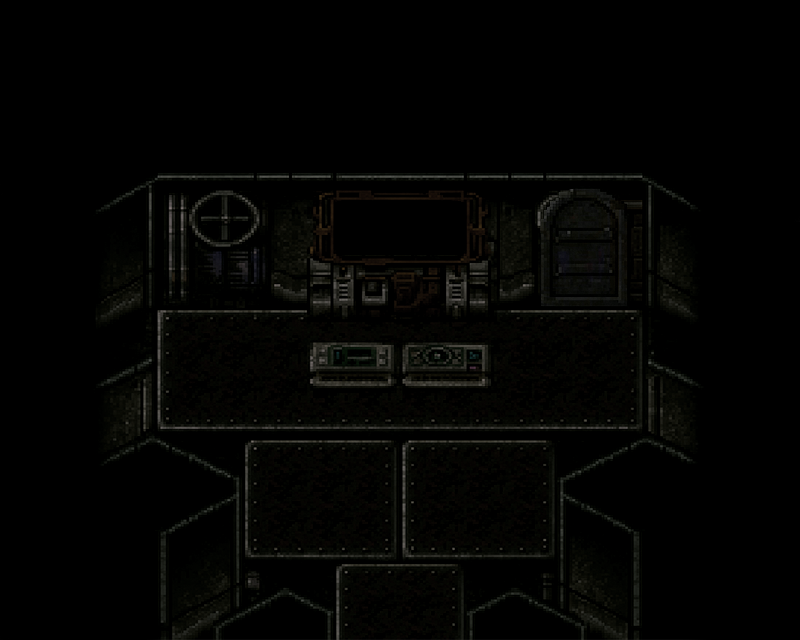
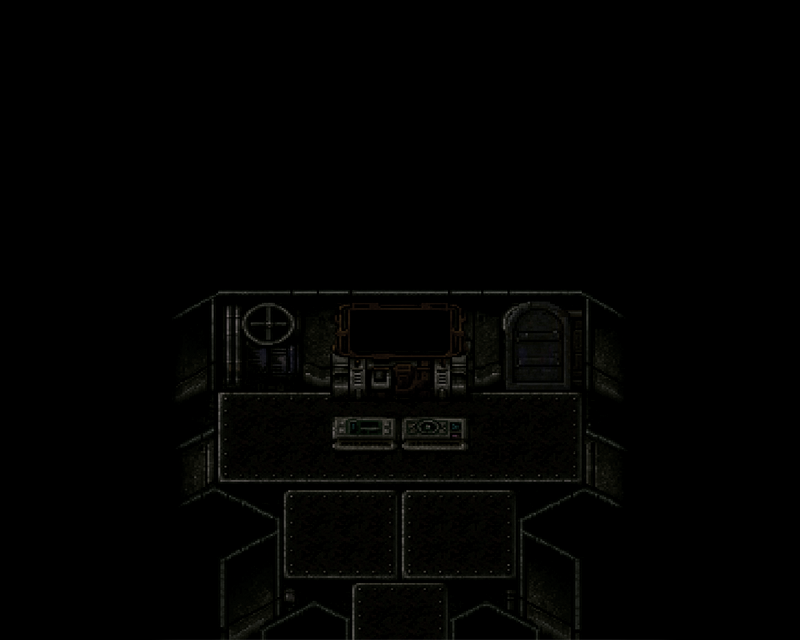
lab colisao

diff --git a/src/p5/levels/levels/level1.js b/src/p5/levels/levels/level1.js
@@ -9,7 +9,7 @@ function level1(p5, sharedPlayer) {
   
   // Variáveis para o mapa
   let levelImage = null;
-  let treesImage = null; // Opcional: layer de objetos em cima
+  let labFront = null; // Opcional: layer de objetos em cima
   let levelWidth = 800;
   let levelHeight = 640;
   let cameraX = 0;
@@ -24,7 +24,7 @@ function level1(p5, sharedPlayer) {
   let musicFadeSpeed = 0.005;
 
   // Variáveis para controle de saída
-  let exitArea = { x: 100, y: 100, radius: 50 }; // Área de saída próxima ao spawn
+  let exitArea = { x: 390, y: 600, radius: 50 }; // Área de saída próxima ao spawn
   let zKeyPressed = false;
   let shouldExit = false;
   let textBoxImage = null;
@@ -38,14 +38,14 @@ function level1(p5, sharedPlayer) {
 
   function loadLevel() {
     // Carrega a imagem do level1
-    levelImage = p5.loadImage('/assets/maps/level1.png', () => {
+    levelImage = p5.loadImage('/assets/level/LabDark.png', () => {
       console.log('Level1 map loaded successfully');
     }, (error) => {
       console.error('Failed to load level1 map:', error);
     });
 
     // Opcional: layer de árvores/objetos por cima
-    treesImage = p5.loadImage('/assets/maps/level1trees.png', () => {
+    labFront = p5.loadImage('/assets/level/LabDarkFront.png', () => {
       console.log('Level1 trees loaded successfully');
     }, (error) => {
       console.log('Level1 trees not found or not needed');
@@ -71,13 +71,6 @@ function level1(p5, sharedPlayer) {
     }, (error) => {
       console.error('Failed to load item sound:', error);
     });
-
-    levelImage = p5.loadImage('/assets/maps/level1.png', () => {
-      console.log('Level1 map loaded successfully');
-    }, (error) => {
-      console.error('Failed to load level1 map:', error);
-    });
-
     
     music.loadMusic();
     mistInstance.loadMist();
@@ -219,6 +212,7 @@ function level1(p5, sharedPlayer) {
     const textBoxY = p5.height - textBoxHeight - 20;
     
     if (textBoxImage) {
+      p5.tint(255, 255, 255, 128);
       p5.image(textBoxImage, textBoxX, textBoxY, textBoxWidth, textBoxHeight);
     } else {
       p5.fill(0, 0, 0, 150);
@@ -227,7 +221,7 @@ function level1(p5, sharedPlayer) {
       p5.rect(textBoxX, textBoxY, textBoxWidth, textBoxHeight, 10);
     }
     
-    p5.fill(255, 255, 255);
+    p5.fill(255, 255, 255, 128);
     p5.noStroke();
     p5.textAlign(p5.CENTER, p5.CENTER);
     p5.textSize(18);
@@ -270,8 +264,8 @@ function level1(p5, sharedPlayer) {
     player.display();
 
     // Desenha objetos por cima (se existir)
-    if (treesImage) {
-      p5.image(treesImage, 0, 0, levelWidth, levelHeight);
+    if (labFront) {
+      p5.image(labFront, 0, 0, levelWidth, levelHeight);
     }
 
     // Fade in da música

diff --git a/src/p5/levels/levels/level2.js b/src/p5/levels/levels/level2.js
@@ -109,15 +109,15 @@ function level2(p5, sharedPlayer) {
         
         // Adiciona a chave ao inventário
         const keyItem = {
-          name: "chave",
+          name: "Lab key",
           image: keyImage,
           type: "key"
         };
         
         const added = player.addItem(keyItem);
         if (added) {
-          console.log('Chave coletada!');
-          
+          console.log('Chave do laboratório coletada!');
+
           // Toca o som da chave
           if (keySound) {
             keySound.play();
@@ -146,6 +146,7 @@ function level2(p5, sharedPlayer) {
     
     // Desenha a textBox como fundo se carregada
     if (textBoxImage) {
+      p5.tint(255, 255, 255, 128)
       p5.image(textBoxImage, textBoxX, textBoxY, textBoxWidth, textBoxHeight);
     } else {
       // Fallback: fundo simples
@@ -156,7 +157,7 @@ function level2(p5, sharedPlayer) {
     }
     
     // Desenha o texto branco por cima da textBox
-    p5.fill(255, 255, 255);
+    p5.fill(255, 255, 255, 128);
     p5.noStroke();
     p5.textAlign(p5.CENTER, p5.CENTER);
     p5.textSize(18);
@@ -232,6 +233,7 @@ function level2(p5, sharedPlayer) {
     
     // Desenha a textBox como fundo se carregada
     if (textBoxImage) {
+      p5.tint(255, 255, 255, 128);
       p5.image(textBoxImage, textBoxX, textBoxY, textBoxWidth, textBoxHeight);
     } else {
       // Fallback: fundo simples
@@ -242,7 +244,7 @@ function level2(p5, sharedPlayer) {
     }
     
     // Desenha o texto branco por cima da textBox
-    p5.fill(255, 255, 255);
+    p5.fill(255, 255, 255, 128);
     p5.noStroke();
     p5.textAlign(p5.CENTER, p5.CENTER);
     p5.textSize(18);

diff --git a/src/components/GameCanvas.jsx b/src/components/GameCanvas.jsx
@@ -304,13 +304,13 @@ function GameCanvas() {
         worldPlayerPosition.y = player.position.y;
         
         // CONFIGURA PLAYER PARA O LEVEL1
-        player.position.x = 100;
-        player.position.y = 100;
-        player.targetPosition.x = 100;
-        player.targetPosition.y = 100;
+        player.position.x = 390;
+        player.position.y = 600;
+        player.targetPosition.x = 390;
+        player.targetPosition.y = 600;
         player.mapSize = 800;
-        player.setCollisionMap('/assets/noColision.png'); // TROCA MAPA DE COLISÃO
-        
+        player.setCollisionMap('/assets/level/LabCollision.png'); // TROCA MAPA DE COLISÃO
+
         flagLevel1 = true;
         flagWorld = false;
         
@@ -385,10 +385,11 @@ function GameCanvas() {
     const textBoxY = p5.height - textBoxHeight - 20;
     
     if (textBoxImage) {
+      p5.tint(255, 255, 255, 128);
       p5.image(textBoxImage, textBoxX, textBoxY, textBoxWidth, textBoxHeight);
     }
-    
-    p5.fill(255, 255, 255);
+
+    p5.fill(255, 255, 255, 128);
     p5.textAlign(p5.CENTER, p5.CENTER);
     p5.textSize(18);
     p5.textStyle(p5.BOLD);
